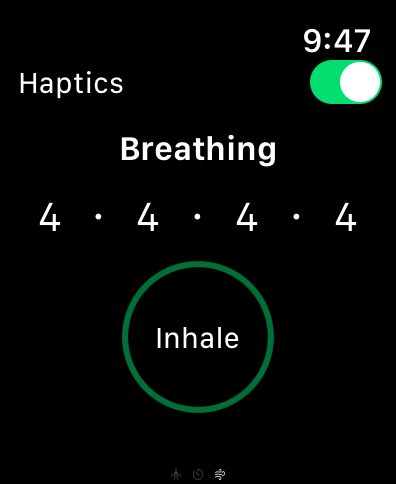
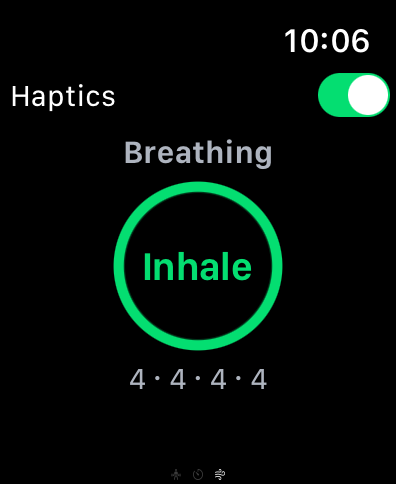
feat(watch): Design CPR-009 — rings Rest/Breath, tokens WatchDesign e checklist Elite ASC.
Alinha o companion ao canvas Design, regenera capturas README e documenta product IDs Elite para App Store Connect.

diff --git a/Packages/WatchCompanion/Sources/WatchCompanion/WatchBreathingView.swift b/Packages/WatchCompanion/Sources/WatchCompanion/WatchBreathingView.swift
@@ -3,7 +3,7 @@ import SwiftUI
 import WatchKit
 #endif
 
-/// Respiração 4-4-4-4 — haptic leve opcional (CPR-009).
+/// Respiração 4-4 — Design CPR-009: anel + fase; haptic opt-in.
 public struct WatchBreathingView: View {
     @AppStorage("watch.breath.hapticsEnabled") private var hapticsEnabled = true
     @State private var inhale = true
@@ -12,26 +12,38 @@ public struct WatchBreathingView: View {
     public init() {}
 
     public var body: some View {
-        VStack(spacing: 12) {
+        VStack(spacing: 8) {
             Toggle(WatchL10n.breathHapticsToggle, isOn: $hapticsEnabled)
-                .font(.caption2)
+                .font(WatchDesign.micro)
+                .tint(WatchDesign.brand)
                 .accessibilityIdentifier("watch.breath.haptics")
 
             Text(WatchL10n.breathTitle)
-                .font(.headline)
+                .font(WatchDesign.sectionLabel)
+                .foregroundStyle(WatchDesign.secondaryLabel)
+
+            ZStack {
+                Circle()
+                    .stroke(WatchDesign.brand.opacity(0.25), lineWidth: WatchDesign.ringLineWidth)
+                    .frame(width: WatchDesign.breathRingSize, height: WatchDesign.breathRingSize)
+                Circle()
+                    .stroke(WatchDesign.brand, lineWidth: WatchDesign.ringLineWidth)
+                    .frame(width: WatchDesign.breathRingSize, height: WatchDesign.breathRingSize)
+                    .scaleEffect(scale)
+                    .opacity(inhale ? 1 : 0.55)
+                Text(inhale ? WatchL10n.breathInhale : WatchL10n.breathExhale)
+                    .font(WatchDesign.phaseFont)
+                    .foregroundStyle(WatchDesign.brand)
+            }
+            .animation(.easeInOut(duration: 4), value: scale)
+
             Text(WatchL10n.breathPattern)
-                .font(.title3.monospaced())
-            Circle()
-                .stroke(WatchDesign.brand.opacity(0.5), lineWidth: 3)
-                .frame(width: 72, height: 72)
-                .scaleEffect(scale)
-                .overlay(
-                    Text(inhale ? WatchL10n.breathInhale : WatchL10n.breathExhale)
-                        .font(.caption2)
-                )
-                .animation(.easeInOut(duration: 4), value: scale)
+                .font(WatchDesign.micro)
+                .foregroundStyle(WatchDesign.secondaryLabel)
+                .monospacedDigit()
         }
-        .padding()
+        .frame(maxWidth: .infinity, maxHeight: .infinity)
+        .padding(.horizontal, 4)
         .accessibilityIdentifier("watch.poc.breath")
         .task { await runBreathCycle() }
     }
@@ -40,11 +52,11 @@ public struct WatchBreathingView: View {
     private func runBreathCycle() async {
         while !Task.isCancelled {
             inhale = true
-            scale = 1.05
+            scale = 1.08
             pulseHaptic(start: true)
             try? await Task.sleep(nanoseconds: 4_000_000_000)
             inhale = false
-            scale = 0.85
+            scale = 0.82
             pulseHaptic(start: false)
             try? await Task.sleep(nanoseconds: 4_000_000_000)
         }

diff --git a/Packages/WatchCompanion/Sources/WatchCompanion/WatchRestTimerView.swift b/Packages/WatchCompanion/Sources/WatchCompanion/WatchRestTimerView.swift
@@ -3,7 +3,7 @@ import SwiftUI
 import WatchKit
 #endif
 
-/// Timer de descanso CPR-009 — envia evento `rest` ao concluir.
+/// Timer de descanso CPR-009 Design — ring + timer dominante; evento `rest` ao concluir.
 public struct WatchRestTimerView: View {
     private let totalDurationSec: Int
 
@@ -17,26 +17,49 @@ public struct WatchRestTimerView: View {
         _remainingSec = State(initialValue: duration)
     }
 
+    private var progress: Double {
+        guard totalDurationSec > 0 else { return 0 }
+        return Double(totalDurationSec - remainingSec) / Double(totalDurationSec)
+    }
+
     public var body: some View {
-        VStack(spacing: 10) {
+        VStack(spacing: 8) {
             Text(WatchL10n.restLabel)
-                .font(.caption.bold())
-                .foregroundStyle(.secondary)
-            Text(formattedTime(remainingSec))
-                .font(.system(size: 36, weight: .bold, design: .rounded))
-                .monospacedDigit()
-                .accessibilityIdentifier("watch.rest.timer")
+                .font(WatchDesign.sectionLabel)
+                .foregroundStyle(WatchDesign.secondaryLabel)
+
+            ZStack {
+                Circle()
+                    .stroke(WatchDesign.brand.opacity(0.22), lineWidth: WatchDesign.ringLineWidth)
+                Circle()
+                    .trim(from: 0, to: progress)
+                    .stroke(
+                        WatchDesign.brand,
+                        style: StrokeStyle(lineWidth: WatchDesign.ringLineWidth, lineCap: .round)
+                    )
+                    .rotationEffect(.degrees(-90))
+                    .animation(.linear(duration: 0.25), value: progress)
+                Text(formattedTime(remainingSec))
+                    .font(WatchDesign.timerFont)
+                    .monospacedDigit()
+                    .accessibilityIdentifier("watch.rest.timer")
+            }
+            .frame(width: WatchDesign.restRingSize, height: WatchDesign.restRingSize)
+
             Text(WatchL10n.restMotivation)
-                .font(.caption2)
-                .foregroundStyle(.secondary)
+                .font(WatchDesign.micro)
+                .foregroundStyle(WatchDesign.secondaryLabel)
                 .multilineTextAlignment(.center)
+                .lineLimit(2)
 
             Button(isRunning ? WatchL10n.restPause : WatchL10n.restStart) {
                 toggleTimer()
             }
+            .tint(WatchDesign.brand)
             .accessibilityIdentifier("watch.rest.toggle")
         }
-        .padding()
+        .frame(maxWidth: .infinity, maxHeight: .infinity)
+        .padding(.horizontal, 4)
         .accessibilityIdentifier("watch.poc.rest")
         .onDisappear { stopTimer() }
     }

diff --git a/Packages/WatchCompanion/Sources/WatchCompanion/WatchPOCViews.swift b/Packages/WatchCompanion/Sources/WatchCompanion/WatchPOCViews.swift
@@ -1,22 +1,26 @@
 import SwiftUI
 
-/// Dica contextual na sessão (CPR-009).
+/// Dica contextual na sessão (CPR-009 Design — tip curta, sem densidade de iPhone).
 public struct WatchSessionTipView: View {
     public init() {}
 
     public var body: some View {
-        VStack(spacing: 8) {
+        VStack(spacing: 10) {
             Image(systemName: "figure.strengthtraining.traditional")
                 .font(.title2)
                 .foregroundStyle(WatchDesign.brand)
+                .symbolRenderingMode(.hierarchical)
             Text(WatchL10n.sessionTitle)
                 .font(.headline)
-            Text(WatchL10n.sessionTip)
-                .font(.caption)
-                .foregroundStyle(.secondary)
                 .multilineTextAlignment(.center)
+            Text(WatchL10n.sessionTip)
+                .font(WatchDesign.bodyTip)
+                .foregroundStyle(WatchDesign.secondaryLabel)
+                .multilineTextAlignment(.center)
+                .fixedSize(horizontal: false, vertical: true)
         }
-        .padding()
+        .frame(maxWidth: .infinity, maxHeight: .infinity)
+        .padding(.horizontal, 6)
         .accessibilityIdentifier("watch.poc.session")
     }
 }

diff --git a/Packages/WatchCompanion/Sources/WatchCompanion/WatchDesign.swift b/Packages/WatchCompanion/Sources/WatchCompanion/WatchDesign.swift
@@ -1,7 +1,23 @@
 import SwiftUI
 
+/// Tokens visuais do companion watchOS (CPR-009 Design).
+/// Espelha a intenção de `AppDesign` no iPhone sem depender do pacote Localization.
 enum WatchDesign {
+    /// Brand verde — accent CTAs, anéis e ícones.
     static let brand = Color.green
+
+    /// Label secundário (caption hierarchy).
+    static let secondaryLabel = Color.secondary
+
+    static let timerFont = Font.system(size: 34, weight: .bold, design: .rounded)
+    static let phaseFont = Font.title3.monospacedDigit().weight(.semibold)
+    static let sectionLabel = Font.caption.weight(.semibold)
+    static let bodyTip = Font.caption
+    static let micro = Font.caption2
+
+    static let ringLineWidth: CGFloat = 5
+    static let breathRingSize: CGFloat = 78
+    static let restRingSize: CGFloat = 96
 }
 
 enum WatchL10n {

diff --git a/Packages/WatchCompanion/Sources/WatchCompanion/WatchCompanionRootView.swift b/Packages/WatchCompanion/Sources/WatchCompanion/WatchCompanionRootView.swift
@@ -1,6 +1,6 @@
 import SwiftUI
 
-/// Shell CPR-009 no relógio — sessão, descanso e respiração (sem LLM no device).
+/// Shell CPR-009 Design — sessão, descanso e respiração (sem LLM no device).
 public struct WatchCompanionRootView: View {
     @State private var selectedTab: Int
 
@@ -31,6 +31,7 @@ public struct WatchCompanionRootView: View {
                 }
                 .accessibilityIdentifier("watch.tab.breath")
         }
+        .tint(WatchDesign.brand)
         .accessibilityIdentifier("watch.companion.root")
     }
 }

diff --git a/docs/APP-STORE-CONNECT-ELITE.md b/docs/APP-STORE-CONNECT-ELITE.md
@@ -1,0 +1,44 @@
+# App Store Connect — Elite (CPR-008)
+
+Checklist operacional para criar os produtos **Elite** reais. Os IDs no app já estão fixos — **não** invente novos IDs no ASC sem atualizar o código.
+
+## Product IDs (fonte de verdade)
+
+Código: [`Packages/Domain/.../SubscriptionCatalog.swift`](../Packages/Domain/Sources/Domain/Subscription/SubscriptionCatalog.swift)  
+StoreKit local: [`CrossfitPR/Configuration/Products.storekit`](../CrossfitPR/Configuration/Products.storekit)
+
+| Plano | Product ID |
+|-------|------------|
+| Elite mensal | `com.taquarylab.crossfitprapp.subscription.elite.monthly` |
+| Elite anual | `com.taquarylab.crossfitprapp.subscription.elite.annual` |
+| Elite legado (config local) | `com.douglast.CrossfitPR.elite` |
+
+PRO (já existentes / espelhar no ASC se ainda não estiverem):
+
+| Plano | Product ID |
+|-------|------------|
+| PRO mensal | `com.taquarylab.crossfitprapp.subscription.monthly` |
+| PRO anual | `com.taquarylab.crossfitprapp.subscription.annual` |
+| PRO legado | `com.douglast.CrossfitPR.pro` |
+
+## No console ASC (default: grupo Elite separado)
+
+1. App → **Subscriptions** → criar **Subscription Group** Elite (nome interno livre; no StoreKit local: `crossfitpr-elite-group`).
+2. Adicionar assinatura **Elite Monthly** com product ID **exato** `…elite.monthly`.
+3. Adicionar assinatura **Elite Annual** com product ID **exato** `…elite.annual`.
+4. Preços / disponibilidade / localização (pt-BR + en).
+5. Status **Ready to Submit**; anexar à versão do app em review.
+6. Opcional: produto legado `com.douglast.CrossfitPR.elite` só se ainda houver compradores — senão deixe só no StoreKit de desenvolvimento.
+
+## Validação no app (sandbox)
+
+- [ ] Paywall carrega planos Free teaser / PRO / Elite (3 opções)
+- [ ] Compra sandbox Elite mensal → Settings/Insights mostram tier Elite
+- [ ] Restore em outro simulador/device restaura Elite
+- [ ] Se houver entitlement Elite + PRO, app resolve **Elite** (prioridade no `StoreKitSubscriptionStore`)
+- [ ] Review visual: `docs/screenshots/insights-elite.png`, `insights-elite-empty.png`, `pro-upgrade.png`
+
+## Refs
+
+- [`STOREKIT-PAYMENTS.md`](STOREKIT-PAYMENTS.md)
+- Canvas Feat: `spdd/prompt/CPR-008-20261028-[Feat]-elite-tier.md`

diff --git a/docs/PRODUCT-ROADMAP.md b/docs/PRODUCT-ROADMAP.md
@@ -32,7 +32,7 @@ Visão pública do que já está no app versus o que está **planejado** (SPDD `
 - Target **CrossfitPRWatch** + pacote `WatchCompanion` ([`WATCH-POC.md`](WATCH-POC.md)).
 - Sync WC + eventos no coach PRO; timer descanso + respiração/haptic no relógio.
 - CI compila watchOS no gate moderno; capturas README via `./scripts/capture-watch-readme-screenshots.sh`.
-- Próximo: Design final (CPR-009 canvas).
+- Design final (canvas Design CPR-009): brand token, ring rest/breath, tip curta.
 - Dicas **contextuais na sessão** — sem spam de push.
 - Eventos compactos (série, RPE, descanso) alimentam o snapshot do coach no iPhone (PRO).
 - Comercial: add-on ou bundle PRO + Watch (definido no canvas CPR-009).
@@ -42,8 +42,8 @@ Visão pública do que já está no app versus o que está **planejado** (SPDD `
 1. **CI:** confirmar verde em [`ios.yml`](.github/workflows/ios.yml) na `main` (rerun se fila macOS); gate local Xcode 15+: `./scripts/ci-modern.sh`.
 2. **Mídia README:** `./scripts/capture-readme-media-auto.sh` → commit PNG/GIF Insights Free/PRO/Elite (empty + rich) + paywall Elite quando estável.
 3. **CPR-007:** testar iOS 26+ on-device + `OPENAI_API_KEY` em device; revisar logs `Coaching` no Console.
-4. **CPR-008:** App Store Connect (produtos Elite reais) + screenshots Design; prompts coach Elite dedicados (canvas Feat).
-5. **CPR-009:** canvas Design final + comercial PRO+Watch (`watch-*.png` já na `main`).
+4. **CPR-008:** criar produtos Elite no ASC ([`APP-STORE-CONNECT-ELITE.md`](APP-STORE-CONNECT-ELITE.md)); prompts coach Elite dedicados (canvas Feat).
+5. **CPR-009:** comercial PRO+Watch (add-on/bundle); Design UI no canvas Design CPR-009.
 6. **Personas:** skill [`.cursor/skills/crossfit-athlete-personas`](../.cursor/skills/crossfit-athlete-personas/SKILL.md) · [CPR-010](../spdd/analysis/CPR-010-crossfit-market-mayhem-personas.md).
 
 ## Como acompanhar

diff --git a/spdd/prompt/CPR-009-20261029-[Design]-watch-companion-ui.md b/spdd/prompt/CPR-009-20261029-[Design]-watch-companion-ui.md
@@ -1,0 +1,27 @@
+# CPR-009 — Design: Watch companion UI
+
+**Story:** `spdd/stories/CPR-009-watch-companion.md`  
+**Feat:** `spdd/prompt/CPR-009-20261028-[Feat]-watch-companion.md`
+
+## Princípios (Fitness no pulso × CrossfitPR)
+
+- Hierarquia: label `.caption` / secondary + valor grande **monospacedDigit** (timer / fase)
+- Accent: brand verde (`WatchDesign.brand` ≈ `AppDesign.Colors.brand`) — sem `Color.green` solto nas views
+- Densidade mínima: uma ideia por tab; sem cards de iPhone / rankings / coach
+- Fundo padrão watchOS; progresso circular no Rest e anel na Breath
+- Copy curta via `WatchL10n` / strings do módulo — nunca hardcode de UI
+
+## Tabs
+
+| Tab | Foco visual | CTA |
+|-----|-------------|-----|
+| Sessão | Ícone SF + título + tip 1–2 linhas | — (read-only) |
+| Descanso | Timer dominante + ring de progresso + motivação caption | Start / Pause único |
+| Respiração | Anel animado + fase inhale/exhale + toggle haptic compacto | Toggle haptics |
+
+## Safeguards
+
+- Sem LLM no Watch; sem push spam
+- Haptics opt-in (AppStorage)
+- Accessibility IDs estáveis: `watch.tab.*`, `watch.rest.timer`, `watch.rest.toggle`, `watch.breath.*`
+- Screenshots README: `watch-session.png`, `watch-rest.png`, `watch-breath.png`

diff --git a/docs/WATCH-POC.md b/docs/WATCH-POC.md
@@ -14,7 +14,7 @@ Companion na sessão: dica contextual, timer de descanso e respiração. **Sem L
 | Timer | `WatchRestTimerView` — countdown 1:30, evento `rest` ao fim |
 | Respiração | Animação 4-4 + toggle haptic (`watch.breath.hapticsEnabled`) |
 | Notificações | Sem push no companion — só UI no pulso + eventos WC (haptic opt-in na respiração) |
-| Próximo | Design CPR-009 (canvas UI final) |
+| Design | Canvas Design CPR-009 — `WatchDesign` + rings Rest/Breath |
 
 ## Build local
 
@@ -47,9 +47,12 @@ chmod +x scripts/capture-watch-readme-screenshots.sh
 
 iPhone (onboarding, Insights, paywall): `./scripts/capture-readme-media-auto.sh`
 
+## Design (CPR-009)
+
+Canvas: [`spdd/prompt/CPR-009-20261029-[Design]-watch-companion-ui.md`](../spdd/prompt/CPR-009-20261029-[Design]-watch-companion-ui.md) — tokens `WatchDesign`, ring no Rest/Breath, tip de sessão curta.
+
 ## Próximo
 
-- Canvas Design CPR-009 para UI final + haptics
-- Comercial add-on/bundle PRO+Watch (canvas)
+- Comercial add-on/bundle PRO+Watch (canvas Feat)
 
 Refs: [`spdd/prompt/CPR-009-20261028-[Feat]-watch-companion.md`](../spdd/prompt/CPR-009-20261028-[Feat]-watch-companion.md)

diff --git a/spdd/stories/CPR-009-watch-companion.md b/spdd/stories/CPR-009-watch-companion.md
@@ -14,11 +14,13 @@ para manter foco no box sem abrir o iPhone a todo momento.
 - [x] Respiração visual/haptic em treinos intensos (opt-in — toggle na tab Respiração)
 - [x] Eventos compactos (série, RPE, descanso) → `CoachingContextBuilder.sessionEvents`
 - [x] Sem spam de notificações push (companion não registra push — só WC + haptic opt-in)
-- [ ] Comercial: add-on ou bundle PRO+Watch (canvas)
-- [ ] HealthKit no iPhone: FC média, calorias, duração → Insights (mock em UITest)
+- [x] HealthKit no iPhone: FC média, calorias, duração → Insights (mock em UITest) — CPR-011/012
+- [x] Design final UI (canvas Design CPR-009) — hierarquia Fitness no pulso + tokens `WatchDesign`
+- [ ] Comercial: add-on ou bundle PRO+Watch (canvas Feat)
 
 ## Fases
 
 1. Read-only tips na sessão
 2. Captura real-time + sync
 3. HealthKit metrics → SessionBiometrics / Insights hub
+4. Design final (UI polish + capturas README)

diff --git a/docs/STOREKIT-PAYMENTS.md b/docs/STOREKIT-PAYMENTS.md
@@ -3,6 +3,8 @@
 Guia de produto e engenharia para o fluxo de assinatura no CrossfitPR (CPR-002 + CPR-008).  
 Objetivo: processo **simples, intuitivo e claro** — primeira compra ou renovação — com feedback em cada etapa até o tier estar registrado **no cliente e na App Store**.
 
+Produtos Elite no App Store Connect: [`APP-STORE-CONNECT-ELITE.md`](APP-STORE-CONNECT-ELITE.md).
+
 ## Preocupações (o que não pode falhar em silêncio)
 
 | Preocupação | Risco | Mitigação no app |

diff --git a/spdd/analysis/CPR-009-watch-companion.md b/spdd/analysis/CPR-009-watch-companion.md
@@ -21,6 +21,7 @@ Eventos compactos por sessão — **não** transcript bruto:
 - Dicas in-session only
 - Respiração: cadência 4-4 ou box breathing — haptic leve
 - Descanso: timer + uma linha motivacional; retomada explícita
+- **Design final (2026-10-29):** canvas `CPR-009-*- [Design]-watch-companion-ui` — brand token, ring rest/breath, tip curta; sem densidade de iPhone
 
 ## Dependências
 
